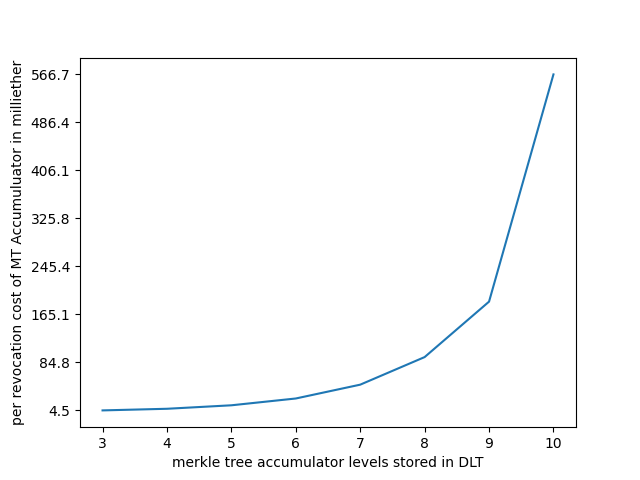
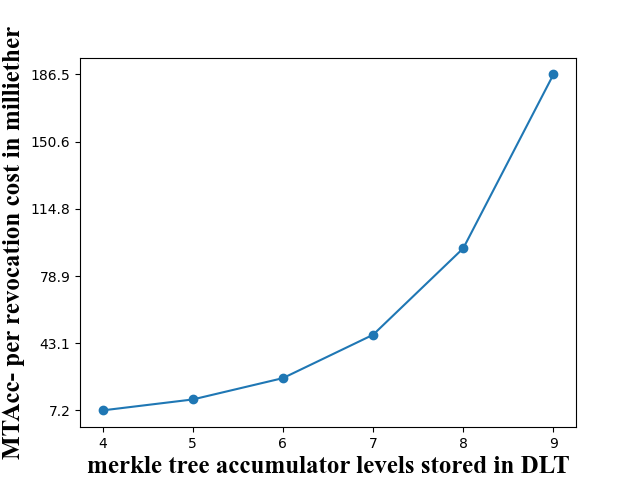
completed plots

diff --git a/plots/plot.py b/plots/plot.py
@@ -14,15 +14,17 @@ def main():
     entries = parse_entry()
     # plot_merkle_tree_accumulator_cost(entries)
     # plot_witness_update_saves(entries)
-    plot_witness_update_saved_for_different_false_positives(entries)
+    # plot_witness_update_saved_for_different_false_positives(entries)
+    plot_witness_update_saved_due_to_levels_in_dlt(entries)
 
 
 def plot_merkle_tree_accumulator_cost(entries):
     mtlevels = []
     costs = []
     for entry in entries:
-        mtlevels.append(entry.setting.mtLevelInDLT)
-        costs.append(entry.result.mtAccumulatorPerUpdateCost/1000000)
+        if entry.setting.totalVCs==5000:
+            mtlevels.append(entry.setting.mtLevelInDLT)
+            costs.append(entry.result.mtAccumulatorPerUpdateCost/1000000)
 
     xpoints = np.array(mtlevels)
     ypoints = np.array(costs)
@@ -34,11 +36,12 @@ def plot_merkle_tree_accumulator_cost(entries):
 
     print(costrange)
     # font = {'fontname':'Times New Roman', 'color': 'darkred', 'size': 10}
-    font={}
+    font = {'fontname': 'Times New Roman', 'size': 18, 'weight': 'bold'}
     plt.plot(xpoints, ypoints, marker = 'o')
     plt.yticks(costrange)
     plt.xlabel('merkle tree accumulator levels stored in DLT', font)
-    plt.ylabel('per revocation cost of MT Accumuluator in milliether', font)
+    plt.ylabel('MTAcc- per revocation cost in milliether', font)
+
     plt.savefig("graphs/cost_mt_accumulator.png")
 
 
@@ -55,7 +58,7 @@ def plot_witness_update_saves(entries):
             savedWitnessUpdates = entry.result.numberOfActualFalsePositives - entry.result.numberOfVCsRetrievedWitnessFromIssuer
             witnessUpdateSavesfor5000.append(savedWitnessUpdates)
 
-        if entry.setting.totalVCs==1000:
+        if entry.setting.totalVCs==1000 and entry.setting.falsePositiveRate==0.1:
             mtlevelsfor1000.append(entry.setting.mtLevelInDLT)
             savedWitnessUpdates = entry.result.numberOfActualFalsePositives - entry.result.numberOfVCsRetrievedWitnessFromIssuer
             witnessUpdateSavesfor1000.append(savedWitnessUpdates)
@@ -75,11 +78,11 @@ def plot_witness_update_saves(entries):
 
     print(wusRange)
     # font = {'fontname':'Times New Roman', 'color': 'darkred', 'size': 10}
-    font={}
+    font = {'fontname': 'Times New Roman', 'size': 18, 'weight': 'bold'}
     plt.plot(x1points, y1points, marker = 'o', label="1000 vcs")
     plt.plot(x2points, y2points, marker='d', label="5000 vcs")
     plt.yticks(wusRange)
-    plt.title('number of vcs benefitted from two phase approach')
+    plt.title('number of vcs benefitted from two phase approach', font)
     plt.xlabel('merkle tree accumulator levels stored in DLT', font)
     plt.ylabel('no. of witness updates saved', font)
     plt.legend()
@@ -147,18 +150,60 @@ def plot_witness_update_saved_for_different_false_positives(entries):
 
     print(wusRange)
     # font = {'fontname':'Times New Roman', 'color': 'darkred', 'size': 10}
-    font={}
+    font = {'fontname':'Times New Roman', 'size': 18, 'weight':'bold'}
     plt.plot(x1points, y1points, marker = 'o', label="0.1 false positive rate")
     plt.plot(x2points, y2points, marker='d', label="0.2 false positive rate")
     plt.plot(x3points, y3points, marker = '*', label="0.3 false positive rate")
     plt.plot(x4points, y4points, marker='s', label="0.4 false positive rate")
     plt.yticks(wusRange)
-    plt.title('The impact of false positive rate on witness updates for 1000 total vcs')
+    plt.title('False positives vs witness updates (1000 vcs)', font)
     plt.xlabel('merkle tree accumulator levels stored in DLT', font)
     plt.ylabel('no. of witness updates saved', font)
     plt.legend()
     plt.savefig("graphs/witness_updates_saved_1000_for_different_fpr.png")
 
+
+
+
+def plot_witness_update_saved_due_to_levels_in_dlt(entries):
+    mtlevelsfor1000 = []
+    mtlevelsfor5000 = []
+    NoOfAffectedVCs1000 = []
+    NoOfAffectedVCs5000 = []
+
+    for entry in entries:
+        if entry.setting.totalVCs == 5000 and entry.setting.falsePositiveRate==0.1:
+            mtlevelsfor5000.append(entry.setting.mtLevelInDLT)
+            NoOfAffectedVCs5000.append(entry.result.numberOfVCsAffectedByMTAccumulator/1000)
+
+        if entry.setting.totalVCs == 1000 and entry.setting.falsePositiveRate==0.1:
+            mtlevelsfor1000.append(entry.setting.mtLevelInDLT)
+            NoOfAffectedVCs1000.append(entry.result.numberOfVCsAffectedByMTAccumulator/1000)
+
+
+    x1points = np.array(mtlevelsfor1000)
+    y1points = np.array(NoOfAffectedVCs1000)
+    x2points = np.array(mtlevelsfor5000)
+    y2points = np.array(NoOfAffectedVCs5000)
+    print(x1points)
+    print(y1points)
+    print(x2points)
+    print(y2points)
+
+    wusRange = np.linspace(start=0, stop=max(max(NoOfAffectedVCs1000), max(NoOfAffectedVCs5000)),
+                           num=max(len(x1points), len(x2points)))
+
+    print(wusRange)
+    # font = {'fontname':'Times New Roman', 'color': 'darkred', 'size': 10}
+    font = {'fontname': 'Times New Roman', 'size': 18, 'weight': 'bold'}
+    plt.plot(x1points, y1points, marker='o', label="1000 vcs")
+    plt.plot(x2points, y2points, marker='d', label="5000 vcs")
+    plt.yticks(wusRange)
+    plt.title('MT Acc vs witness updates', font)
+    plt.xlabel('level of MT Acc stored in DLT', font)
+    plt.ylabel('total no. of witness updates (in 1000s)', font)
+    plt.legend()
+    plt.savefig("graphs/mt_acc_impact.png")
 
 
 
